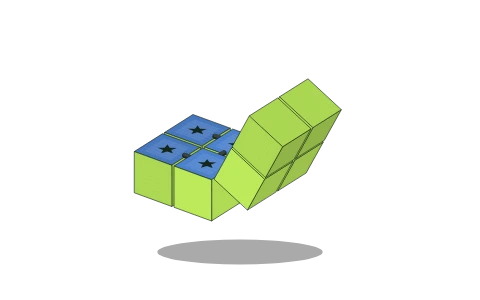
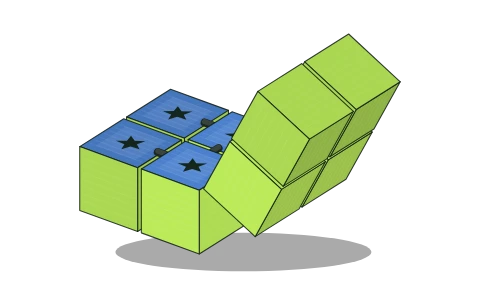
Fit the folding cube to its preview for clearer face details

Changed region(s): [[0.1562, 0.09, 0.8438, 0.93]]

diff --git a/cube-model.js b/cube-model.js
@@ -15,6 +15,8 @@
   function icon(c,key){c.beginPath();if(key==='star'){for(let i=0;i<10;i++){const a=-Math.PI/2+i*Math.PI/5,r=i%2?.085:.2;i?c.lineTo(Math.cos(a)*r,Math.sin(a)*r):c.moveTo(Math.cos(a)*r,Math.sin(a)*r);}c.closePath();}else if(key==='bolt'){c.moveTo(.02,-.22);c.lineTo(-.17,.02);c.lineTo(-.02,.02);c.lineTo(-.06,.22);c.lineTo(.18,-.04);c.lineTo(.03,-.04);c.closePath();}else if(key==='heart'){c.moveTo(0,.18);c.bezierCurveTo(-.33,-.02,-.2,-.27,0,-.12);c.bezierCurveTo(.2,-.27,.33,-.02,0,.18);c.closePath();}else if(key==='circle')c.arc(0,0,.17,0,Math.PI*2);else return;c.fill();}
   const faces=[{n:{x:0,y:0,z:1},u:{x:1,y:0,z:0},v:{x:0,y:1,z:0},type:'front'},{n:{x:0,y:0,z:-1},u:{x:-1,y:0,z:0},v:{x:0,y:1,z:0}},{n:{x:0,y:1,z:0},u:{x:1,y:0,z:0},v:{x:0,y:0,z:-1},type:'top'},{n:{x:0,y:-1,z:0},u:{x:1,y:0,z:0},v:{x:0,y:0,z:1},type:'bottom'},{n:{x:1,y:0,z:0},u:{x:0,y:0,z:-1},v:{x:0,y:1,z:0}},{n:{x:-1,y:0,z:0},u:{x:0,y:0,z:1},v:{x:0,y:1,z:0}}];
   function render(c,w,h,m,{phase=0,clear=true}={}){if(clear)c.clearRect(0,0,w,h);if(!m||w<70||h<100)return;const blocks=geometry(phase),l=layout(w,h),center=blocks.reduce((v,b)=>({x:v.x+b.center.x/8,y:v.y+b.center.y/8,z:v.z+b.center.z/8}),{x:0,y:0,z:0}),project=p=>{const q=camera({x:p.x-center.x,y:p.y-center.y,z:p.z-center.z});return {x:l.x+q.x*l.s,y:l.y+q.y*l.s,depth:q.depth};},paint=[],fold=angles(phase),exposure=Math.abs(Math.sin((fold.top-fold.bottom)/2));
+    const bounds=blocks.flatMap(b=>[-.47,.47].flatMap(x=>[-.47,.47].flatMap(y=>[-.47,.47].map(z=>{const p=b.point({x,y,z});return camera({x:p.x-center.x,y:p.y-center.y,z:p.z-center.z});}))));
+    const minX=Math.min(...bounds.map(p=>p.x)),maxX=Math.max(...bounds.map(p=>p.x)),minY=Math.min(...bounds.map(p=>p.y)),maxY=Math.max(...bounds.map(p=>p.y));l.s=Math.min((w-70)/(maxX-minX),(h-80)/(maxY-minY));l.x=w/2-(minX+maxX)*l.s/2;l.y=h*.48-(minY+maxY)*l.s/2;
     c.save();c.fillStyle='#0005';c.beginPath();c.ellipse(l.x,h*.84,(1.1+(Math.abs(Math.sin(Math.PI*phase/2)))*.65)*l.s,.25*l.s,0,0,Math.PI*2);c.fill();
     for(const block of blocks)for(const face of faces){const n=block.vector(face.n),view=camera(n);if(view.depth<.00001)continue;const p={x:face.n.x*.47,y:face.n.y*.47,z:face.n.z*.47},fc=block.point(p),u=block.vector(face.u),v=block.vector(face.v),pts=[[-1,-1],[1,-1],[1,1],[-1,1]].map(([a,b])=>project({x:fc.x+(u.x*a+v.x*b)*.47,y:fc.y+(u.y*a+v.y*b)*.47,z:fc.z+(u.z*a+v.z*b)*.47})),inside=(block.y===0&&face.type==='top')||(block.y===1&&face.type==='bottom');paint.push({kind:'face',pts,fc:project(fc),u:camera(u),v:camera(v),depth:project(fc).depth,inside,letter:face.type==='front'&&block.z===1?Array.from(m.letters)[(1-block.y)*2+block.x]:'',color:palette[inside?m.inside:m.body],shade:(.65+.36*view.depth)*(block.id%2?.96:1.04)});}
     for(const [a,b] of connections(phase)){const p=project(a),q=project(b);paint.push({kind:'hinge',p,q,depth:(p.depth+q.depth)/2+.03});}

diff --git a/index.html b/index.html
@@ -833,7 +833,7 @@
   <script src="dragon-studio.js?v=1" defer></script>
   <script src="flower-model.js?v=1" defer></script>
   <script src="flower-studio.js?v=1" defer></script>
-  <script src="cube-model.js?v=1" defer></script>
+  <script src="cube-model.js?v=2" defer></script>
   <script src="cube-studio.js?v=1" defer></script>
   <script src="workshop.js?v=3" defer></script>
   <script src="gift-finder.js?v=1" defer></script>

diff --git a/sw.js b/sw.js
@@ -1,4 +1,4 @@
-const CACHE_NAME = "katmanya-shell-v52";
+const CACHE_NAME = "katmanya-shell-v53";
 const BASE = self.registration.scope;
 const CORE_ASSETS = [
   "./",
@@ -37,7 +37,7 @@ const CORE_ASSETS = [
   "./dragon-studio.js?v=1",
   "./flower-model.js?v=1",
   "./flower-studio.js?v=1",
-  "./cube-model.js?v=1",
+  "./cube-model.js?v=2",
   "./cube-studio.js?v=1",
   "./workshop.js?v=3",
   "./gift-finder.js?v=1",
